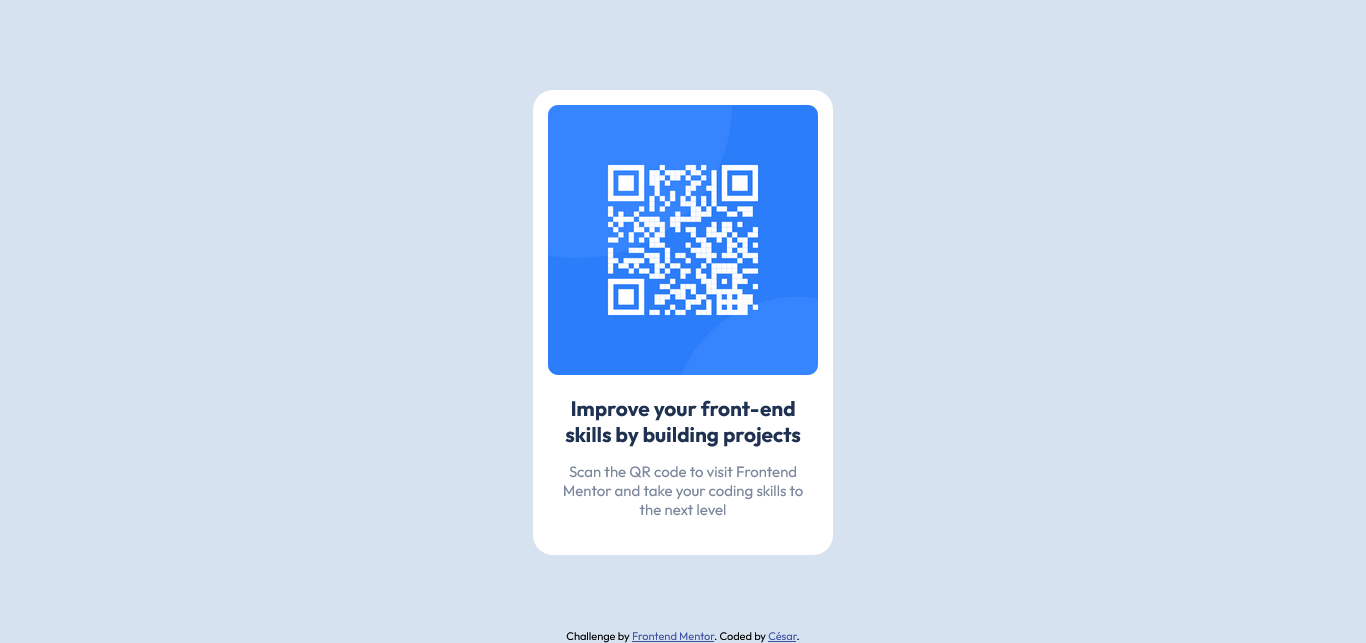
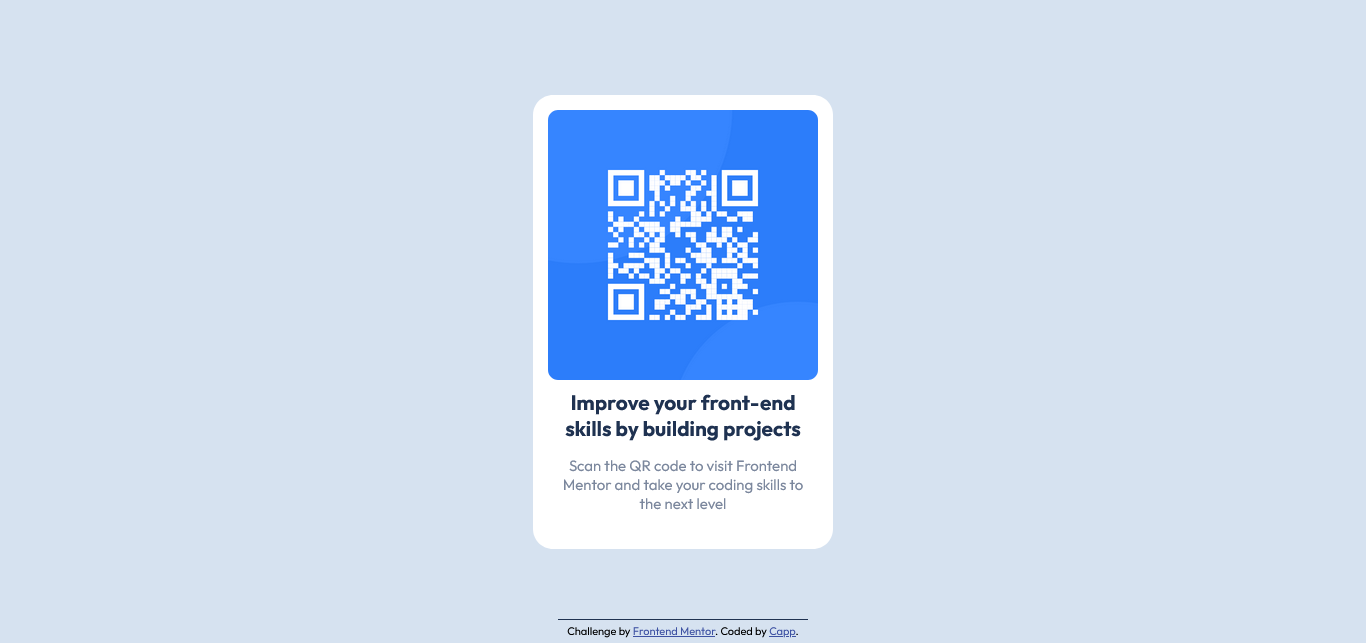
Some fix and improvement

diff --git a/index.html b/index.html
@@ -1,5 +1,5 @@
 <!DOCTYPE html>
-<html lang="en">
+<html lang="pt-br">
 
 <head>
   <meta charset="UTF-8">
@@ -10,20 +10,16 @@
   <link rel="icon" type="image/png" sizes="32x32" href="./images/favicon-32x32.png">
 
   <title>Frontend Mentor | QR code component</title>
-
-  <!-- Feel free to remove these styles or customise in your own stylesheet 👍 -->
 </head>
 
 <body>
 
   <div class="container">
-    <div class="image">
-      <img src="images/image-qr-code.png" alt="QRCode">
-    </div>
+    <img src="images/image-qr-code.png" alt="QRCode">
     <div class="text">
-      <h3>
+      <h1>
         Improve your front-end skills by building projects
-      </h3>
+      </h1>
       <p>
         Scan the QR code to visit Frontend Mentor and take your coding skills to the next level
       </p>
@@ -32,7 +28,7 @@
 
   <div class="attribution">
     Challenge by <a href="https://www.frontendmentor.io?ref=challenge" target="_blank">Frontend Mentor</a>.
-    Coded by <a href="https://github.com/capp98" target="_blank">César</a>.
+    Coded by <a href="https://github.com/capp98" target="_blank">Capp</a>.
   </div>
 </body>
 

diff --git a/style.css b/style.css
@@ -36,14 +36,10 @@ p {
     border-radius: 20px;
     padding: 15px;
 
-    position: absolute;
-    left: 50%;
-    top: 50%;
-    transform: translate(-50%, -50%);
+    margin: 3% auto 0;
 }
 
 img {
-    background-size: cover;
     width: 100%;
     border-radius: 10px;
 }
@@ -73,11 +69,31 @@ img {
     position: absolute;
     bottom: 0;
     width: 100%;
+    padding: 5px 0;
     text-align: center;
+}
+
+.attribution::after {
+    content: '';
+    position: absolute;
+    left: 50%;
+    transform: translateX(-50%);
+    width: 250px;
+    border-top: 1px solid var(--DarkBlue);
+    top: 0;
 }
 
 .attribution a {
     color: hsl(228, 45%, 44%);
 }
 
-@media (max-width: 375) {}
+@media (min-height: 550px) {
+    .container {
+        position: absolute;
+        left: 50%;
+        top: 50%;
+        margin: 0;
+        transform: translate(-50%, -50%);
+        
+    }
+}
